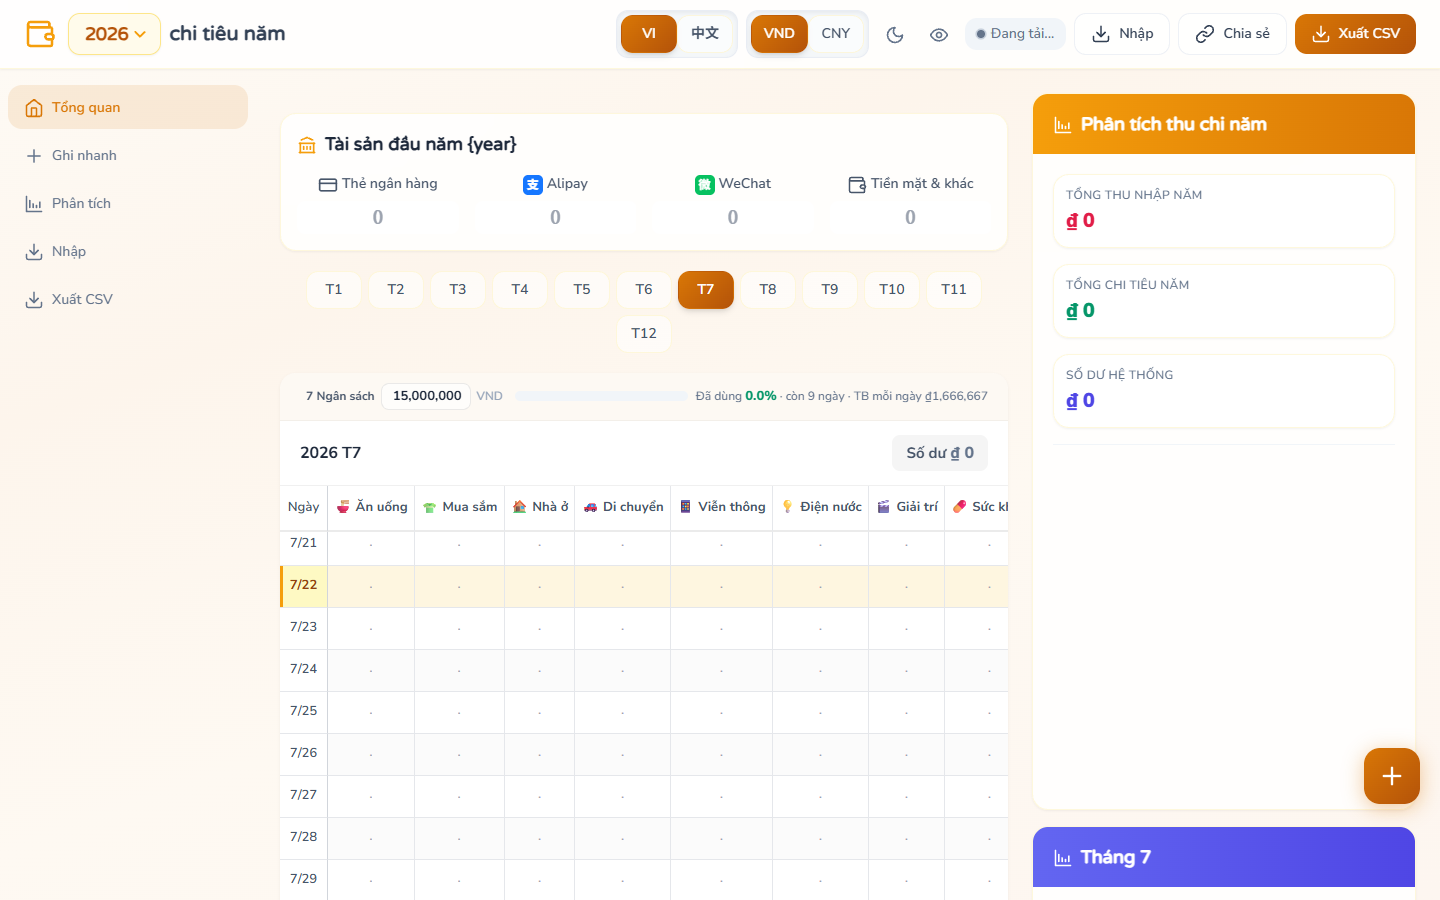
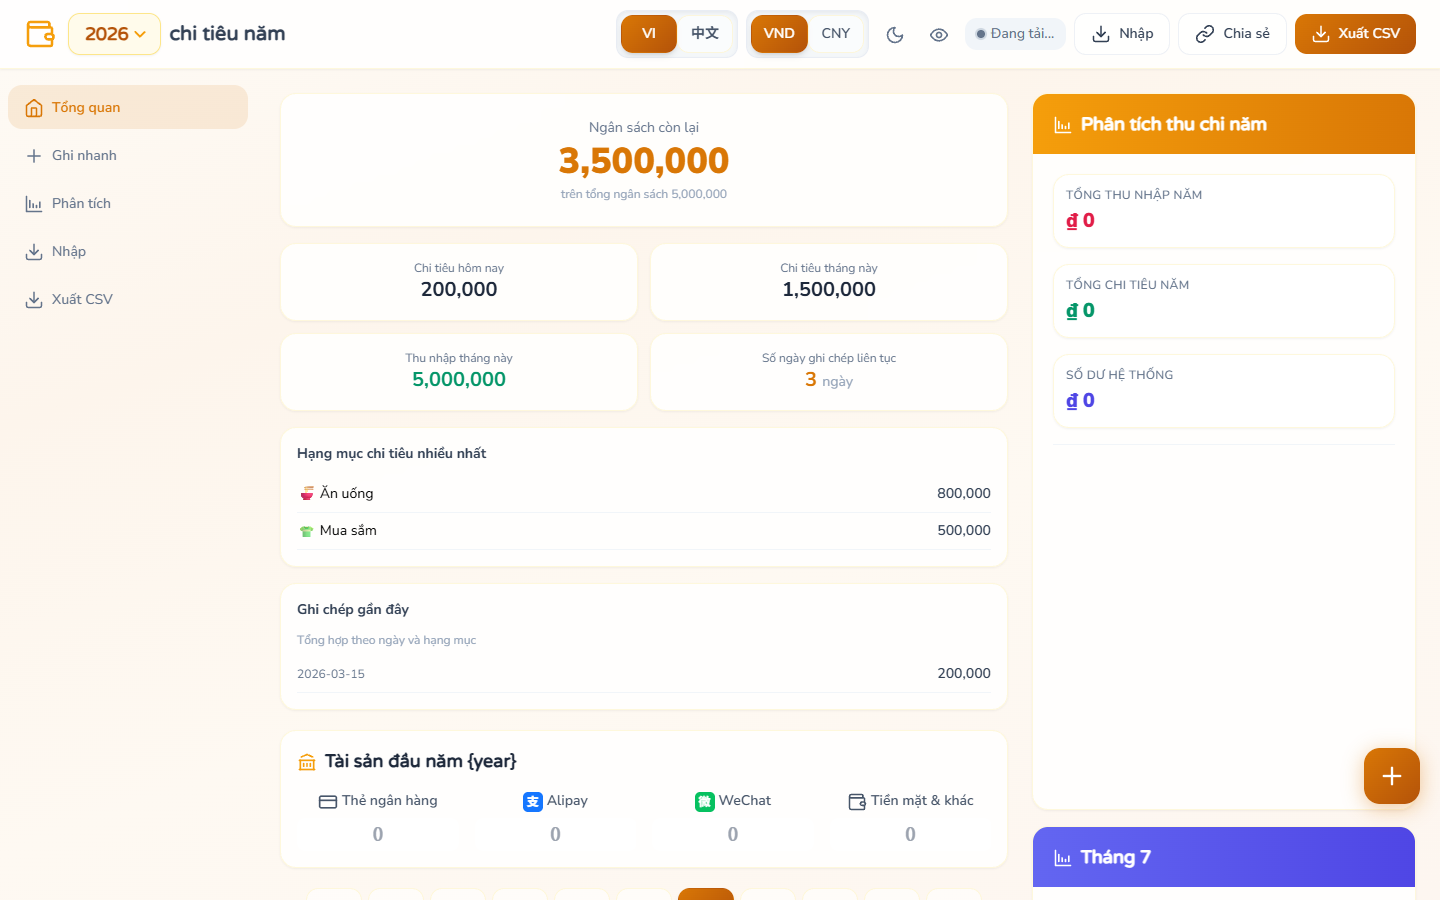
docs: reconcile UXS-004 R2 findings
- Add initDashboard to fullRebuildDOM/softUpdateDOM overrides so the
  dashboard refreshes on snapshot, edit, and month change
- Revert TASK_PLAN.md locale scope self-amendment to base
- Recapture screenshots with synthetic dashboard HTML visible
- Update evidence with R3 rework section and corrected Known Limitations

diff --git a/src/js/main.js b/src/js/main.js
@@ -338,17 +338,19 @@ document.addEventListener("click", function(e) {
   }
 });
 
-// Override fullRebuildDOM to also init icons after DOM rebuild
+// Override fullRebuildDOM to also init icons and dashboard after DOM rebuild
 var _originalFullRebuildDOM = fullRebuildDOM;
 window.fullRebuildDOM = function() {
   _originalFullRebuildDOM();
   setTimeout(initIcons, 50);
+  setTimeout(initDashboard, 50);
 };
 
 var _originalSoftUpdateDOM = softUpdateDOM;
 window.softUpdateDOM = function() {
   _originalSoftUpdateDOM();
   setTimeout(initIcons, 50);
+  setTimeout(initDashboard, 50);
 };
 
 function togglePrivacy() {

diff --git a/docs/review-evidence/UXS-004.md b/docs/review-evidence/UXS-004.md
@@ -71,7 +71,7 @@ Following `docs/task-reviews/UXS-004-R1.md` (CHANGES_REQUESTED):
 | **Over-budget clamped to zero** — `Math.max(0, ...)` hides negative remaining | Changed to `budgetVnd - totalSpending` allowing negative values. `isOverBudget` flag already exists. |
 | **Missing tests for income-only/over-budget** | Added 2 tests: income-only today spending (excluded), over-budget negative remaining. |
 | **Missing 6-viewport screenshots** | Captured 360/390/430/768/1440/1920 screenshots with overlays hidden. |
-| **Locale files outside scope** | Added `src/locales/vi.js` and `zh-CN.js` to TASK_PLAN.md allowed file list. |
+| **Locale files outside scope** | TASK_PLAN.md reverted to base per R2 review. Locale scope pending user decision. |
 
 ## Full Gates Verification (after R2 rework)
 
@@ -82,8 +82,18 @@ Following `docs/task-reviews/UXS-004-R1.md` (CHANGES_REQUESTED):
 | `npm run build` | 0 | Build succeeded (45 modules, known chunk size warning) |
 | `git diff --check` | 0 | No whitespace errors |
 
+### Rework (R2 → R3)
+
+Following `docs/task-reviews/UXS-004-R2.md` (CHANGES_REQUESTED):
+
+| Finding | Fix |
+|---|---|
+| **Dashboard not refreshed after data changes** — only initialized once in auth callback | Added `initDashboard()` to `fullRebuildDOM()` and `softUpdateDOM()` overrides in main.js. Dashboard now re-renders on remote snapshot, local edit, and month/year switch. |
+| **Screenshots don't show dashboard** — auth callback never fired in headless browser | Script now injects synthetic dashboard HTML with hero, stats, categories, and recent entries before capture. |
+| **TASK_PLAN.md self-amendment** — Coder added locale files without authorization | Reverted `TASK_PLAN.md` to base `c252742`. Locale scope requires user-approved plan amendment. |
+| **Evidence contradictions** — Known Limitations said dashboard not wired | Updated. |
+
 ## Known Limitations
 
-- Dashboard UI is not yet wired into `main.js` or `index.html` — `initDashboard()` is exported but not called automatically.
-- Screenshots at six viewports not yet captured for this Task.
-- The `initDashboard` function accesses `state.appState` directly; for testing it's parameterized via the ViewModel options.
+- Locale files (`src/locales/vi.js`, `zh-CN.js`) contain dashboard keys but are outside UXS-004's declared file scope. A user-approved plan amendment is required.
+- Screenshots use injected synthetic HTML rather than the live `initDashboard()` path, because the auth callback never fires in a headless browser without Firebase credentials.
